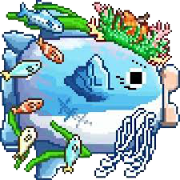
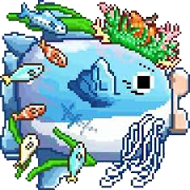
ver 3.1 collision box size

diff --git a/whalewhale/main_state.py b/whalewhale/main_state.py
@@ -35,14 +35,36 @@ class Whale:
 
     speed = [21, 19, 17, 15, 13, 11, 9, 7, 5, 3]
 
+    image_right = None
+
     def __init__(self):
         self.x, self.y = 400, 300
-        #self.frame = 0
-        self.image_right = load_image('Resources//8R.png')
-        self.image_left = load_image('Resources//8L.png')
+
+        self.image_right = [load_image('Resources//1R.png'),
+                            load_image('Resources//2R.png'),
+                            load_image('Resources//3R.png'),
+                            load_image('Resources//4R.png'),
+                            load_image('Resources//5R.png'),
+                            load_image('Resources//6R.png'),
+                            load_image('Resources//7R.png'),
+                            load_image('Resources//8R.png'),
+                            load_image('Resources//9R.png'),
+                            load_image('Resources//10R.png')]
+
+        self.image_left = [load_image('Resources//1L.png'),
+                            load_image('Resources//2L.png'),
+                            load_image('Resources//3L.png'),
+                            load_image('Resources//4L.png'),
+                            load_image('Resources//5L.png'),
+                            load_image('Resources//6L.png'),
+                            load_image('Resources//7L.png'),
+                            load_image('Resources//8L.png'),
+                            load_image('Resources//9L.png'),
+                            load_image('Resources//10L.png')]
+
+        self.level = 9
         self.state = 4 #stop
         self.dir = True
-        self.level = 0
 
 
     def update(self):
@@ -58,60 +80,15 @@ class Whale:
             self.x -= 2
 
     def draw(self):
-        #self.image.clip_draw(self.frame*100, 0, 100, 100, self.x, self.y)
-        if self.level == 0:
-            if self.dir == True:
-                self.image_right.draw(self.x, self.y)
-            else:
-                self.image_left.draw(self.x, self.y)
-        elif self.level == 1:
-            if self.dir == True:
-                self.image_right.draw(self.x, self.y)
-            else:
-                self.image_left.draw(self.x, self.y)
-        elif self.level == 2:
-            if self.dir == True:
-                self.image_right.draw(self.x, self.y)
-            else:
-                self.image_left.draw(self.x, self.y)
-        elif self.level == 3:
-            if self.dir == True:
-                self.image_right.draw(self.x, self.y)
-            else:
-                self.image_left.draw(self.x, self.y)
-        elif self.level == 4:
-            if self.dir == True:
-                self.image_right.draw(self.x, self.y)
-            else:
-                self.image_left.draw(self.x, self.y)
-        elif self.level == 5:
-            if self.dir == True:
-                self.image_right.draw(self.x, self.y)
-            else:
-                self.image_left.draw(self.x, self.y)
-        elif self.level == 6:
-            if self.dir == True:
-                self.image_right.draw(self.x, self.y)
-            else:
-                self.image_left.draw(self.x, self.y)
-        elif self.level == 7:
-            if self.dir == True:
-                self.image_right.draw(self.x, self.y)
-            else:
-                self.image_left.draw(self.x, self.y)
-        elif self.level == 8:
-            if self.dir == True:
-                self.image_right.draw(self.x, self.y)
-            else:
-                self.image_left.draw(self.x, self.y)
-        elif self.level == 9:
-            if self.dir == True:
-                self.image_right.draw(self.x, self.y)
-            else:
-                self.image_left.draw(self.x, self.y)
+        if self.dir == True:
+            self.image_right[self.level].draw(self.x, self.y)
+        else:
+            self.image_left[self.level].draw(self.x, self.y)
 
     def get_bb(self):
-        return self.x - 70, self.y - 50, self.x + 70, self.y + 40
+        return self.x - (self.level + 1) * 10, self.y - (self.level + 1) * 8,\
+               self.x + (self.level + 1) * 10, self.y + (self.level + 1) * 7
+
 
     def draw_bb(self):
         draw_rectangle(*self.get_bb())
@@ -144,7 +121,7 @@ class YellowFish:
             self.image_left.clip_draw(self.frame*40, 0, 40, 25, self.x, self.y)
 
     def get_bb(self):
-        return self.x - 32, self.y - 20, self.x + 32, self.y + 20
+        return self.x - 18, self.y - 10, self.x + 18, self.y + 10
 
     def draw_bb(self):
         draw_rectangle(*self.get_bb())
@@ -177,7 +154,7 @@ class GoldFish:
             self.image_left.clip_draw(self.frame*80, 0, 80, 60, self.x, self.y)
 
     def get_bb(self):
-        return self.x - 40, self.y - 25, self.x + 40, self.y + 30
+        return self.x - 35, self.y - 12, self.x + 35, self.y + 18
 
     def draw_bb(self):
         draw_rectangle(*self.get_bb())
@@ -210,7 +187,7 @@ class GreenFish:
             self.image_left.clip_draw(self.frame*120, 0, 120, 120, self.x, self.y)
 
     def get_bb(self):
-        return self.x - 50, self.y - 30, self.x + 50, self.y + 30
+        return self.x - 40, self.y - 25, self.x + 40, self.y + 25
 
     def draw_bb(self):
         draw_rectangle(*self.get_bb())
@@ -243,7 +220,7 @@ class Tuna:
             self.image_left.clip_draw(self.frame*175, 0, 175, 105, self.x, self.y)
 
     def get_bb(self):
-        return self.x - 65, self.y - 30, self.x + 65, self.y + 35
+        return self.x - 53, self.y - 25, self.x + 53, self.y + 25
 
     def draw_bb(self):
         draw_rectangle(*self.get_bb())
